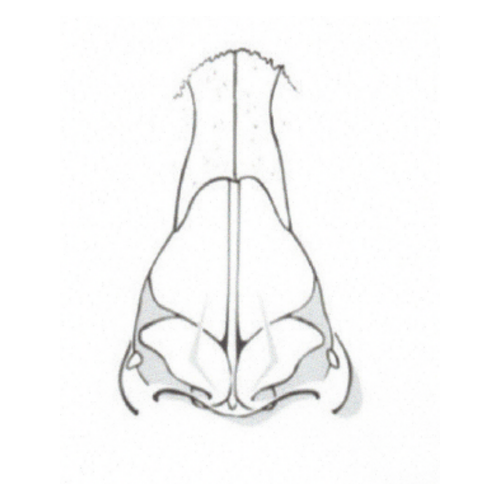
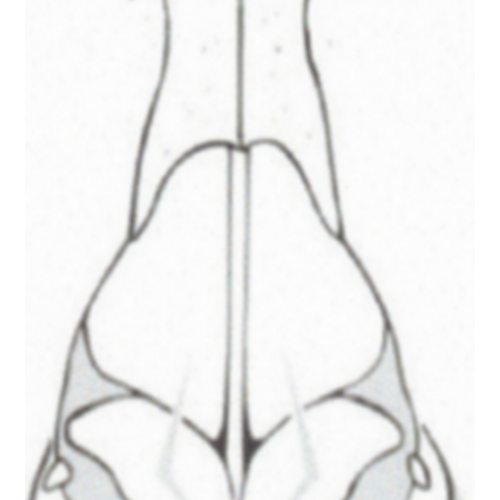
auto-commit for 7c1f2732-28d2-4753-a1af-982a66957b01

diff --git a/frontend/src/pages/RhinoPlannerPage.jsx b/frontend/src/pages/RhinoPlannerPage.jsx
@@ -316,30 +316,21 @@ const RhinoPlannerPage = () => {
         }
       });
       
-      // Oblicz skalę aby obraz wypełnił cały canvas zachowując proporcje
       const canvasWidth = 500;
       const canvasHeight = 500;
       
-      // Użyj większej skali aby wypełnić canvas (cover)
-      const scaleX = canvasWidth / imgEl.width;
-      const scaleY = canvasHeight / imgEl.height;
-      const scale = Math.max(scaleX, scaleY);
+      // Skaluj obraz aby wypełnił cały canvas (1:1 dla 500x500)
+      const scale = canvasWidth / imgEl.width;
       
-      // Wycentruj obraz
-      const scaledWidth = imgEl.width * scale;
-      const scaledHeight = imgEl.height * scale;
-      const left = (canvasWidth - scaledWidth) / 2;
-      const top = (canvasHeight - scaledHeight) / 2;
-      
-      // Dopasuj obraz do całego canvasu (cover, wycentrowany)
+      // Ustaw obraz na pozycji 0,0 i skaluj do pełnej wielkości canvas
       const fabricImg = new FabricImage(imgEl, {
-        left: left,
-        top: top,
+        left: 0,
+        top: 0,
         selectable: false,
         evented: false,
         scaleX: scale,
         scaleY: scale,
-        opacity: 0.6
+        opacity: 0.7
       });
       
       fabricImg.isBackground = true;
